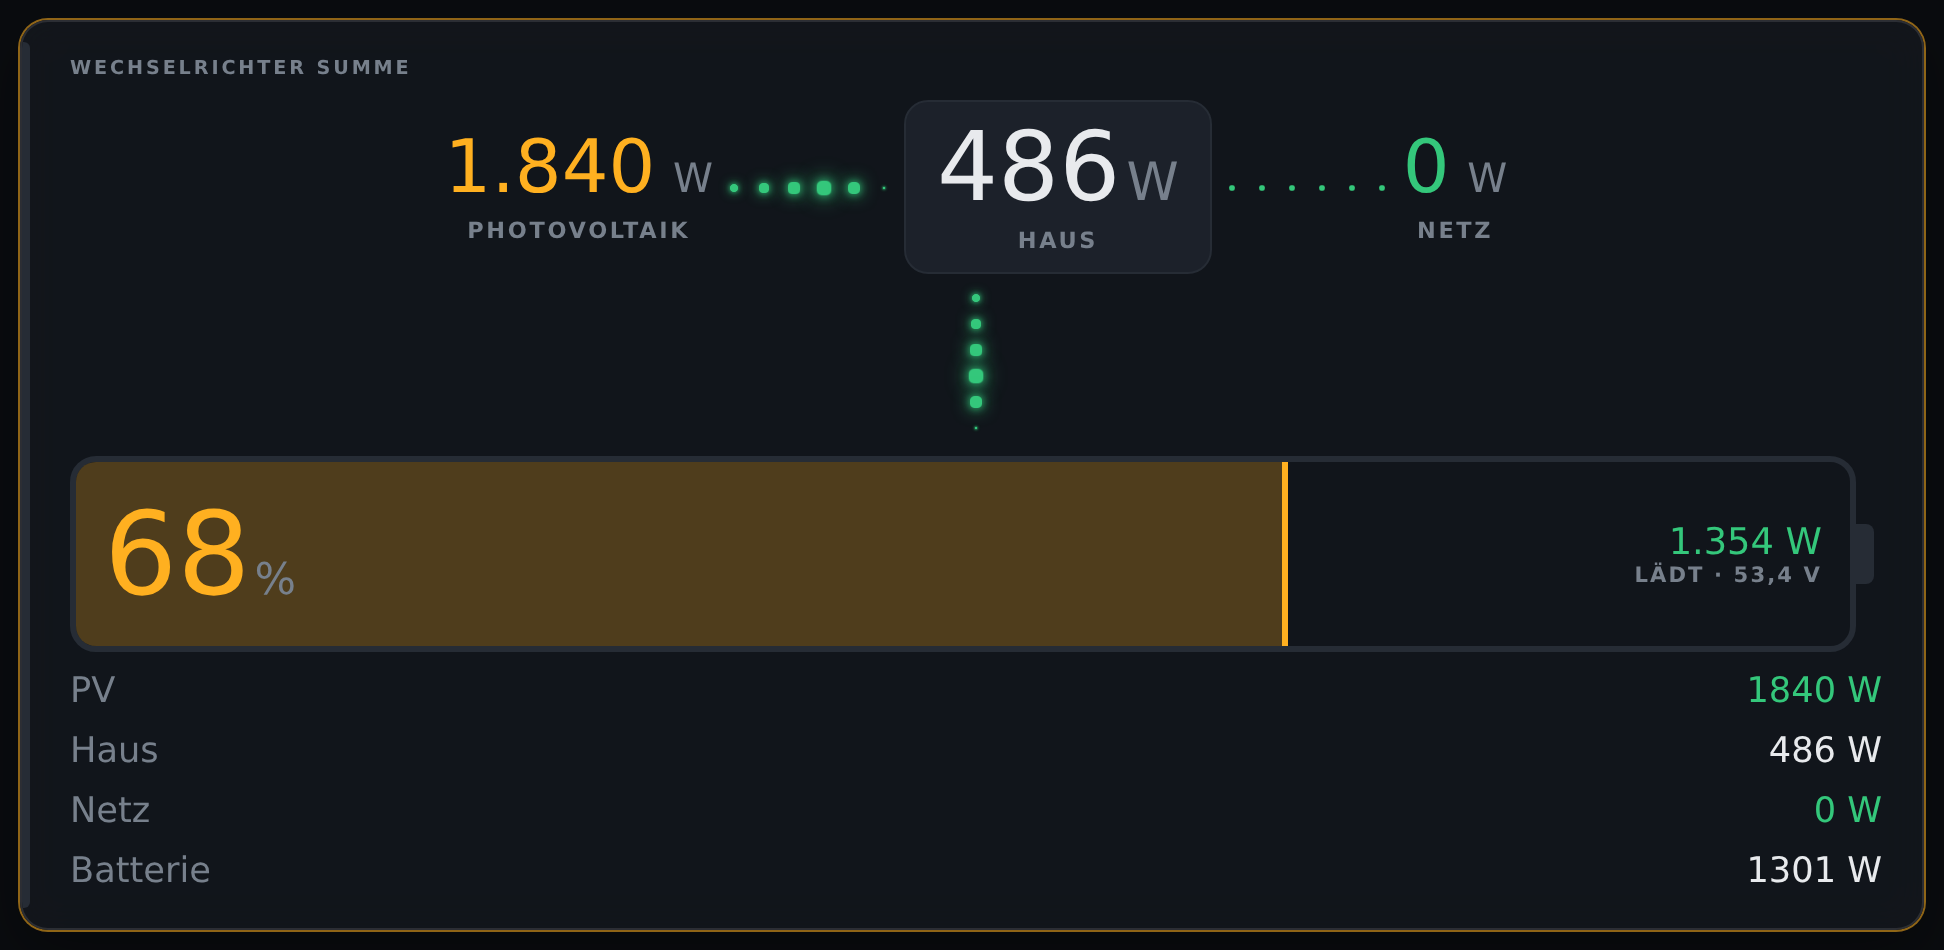
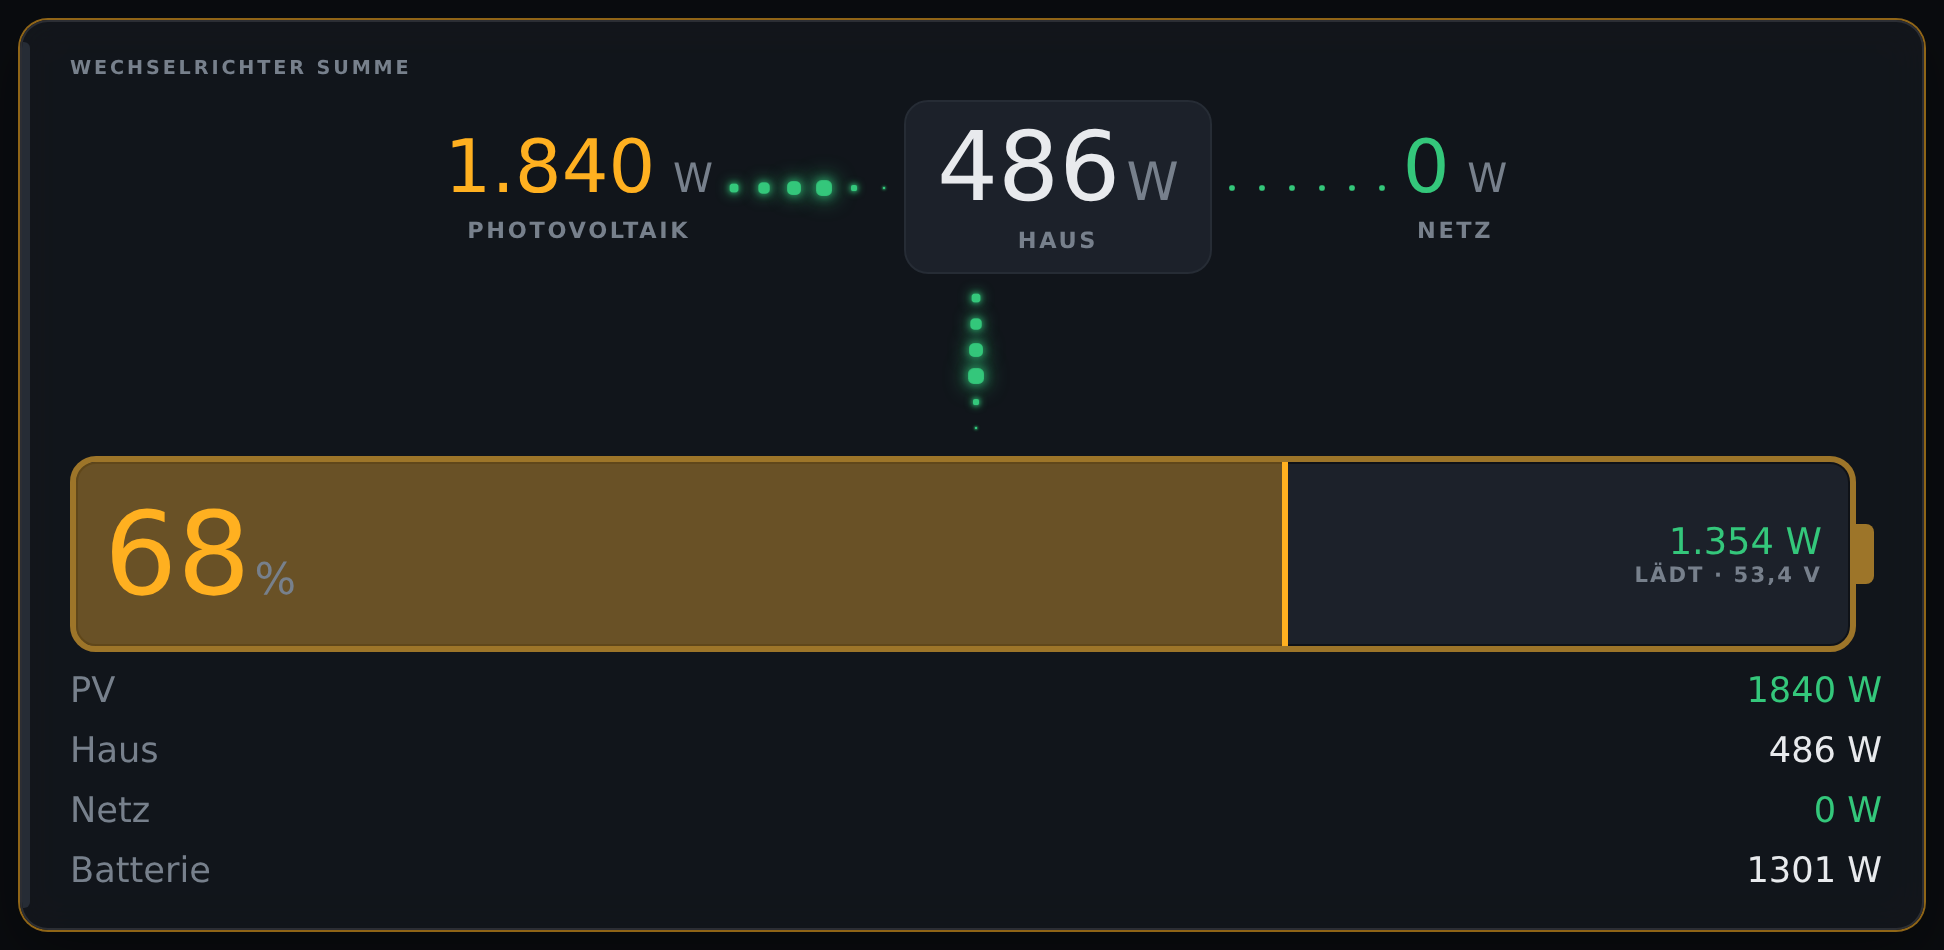
flow: Batterie setzt sich vom Hintergrund ab (v0.37.3)
Rahmen und Pol-Kappe hatten --viz-border, im dunklen Theme #262c35 auf der
Karte #151920. Die Form entstand damit praktisch nur durch die Fuellung: bei
niedrigem Ladestand war fast nichts zu sehen, und auf dem Wandtablet aus
einigen Metern verschwand das Symbol.

Rahmen und Kappe tragen jetzt die Ladefarbe (dieselbe wie Fuellung und Zahl),
gemischt mit der Rahmenfarbe; der Koerper ist auf --viz-raised aufgehellt und
ein dunkler Innenschatten trennt beides, sonst laufen Rahmen und Koerper bei
hohem Ladestand ineinander. Fuellung 26 -> 34 %.

Eine neutrale graue Variante war gebaut und in beiden Themes und im TV-Modus
gegengeprueft - auf dem Wandtablet immer noch zu leise, deshalb die farbige.
Bei 100 % steht die Zeile "ENTLAEDT 46,3 V" auf der Fuellung; nachgesehen,
noch lesbar.

Dazu docs/img/widget-flow.png neu aufgenommen.

Claude-Session: https://claude.ai/code/session_01575XWF8hpGtDmvurZybUJ7

Changed region(s): [[0.0309, 0.4579, 0.9877, 0.7021], [0.4938, 0.3968, 0.5247, 0.4274], [0.4321, 0.1832, 0.463, 0.2137]]

diff --git a/www/fhemviz/js/widgets/flow.js b/www/fhemviz/js/widgets/flow.js
@@ -97,12 +97,26 @@ const FLOW_CSS = `
    * ablesbar bleibt. Kompakt, damit sie den Ladestand nicht verdraengt. */
   .fchainrow { display: flex; justify-content: center; }
   .fchainrow .chain.v { gap: 5px; }
+  /* Rahmen und Koerper heben sich BEWUSST vom Kartenhintergrund ab: mit
+   * --viz-border (dunkel #262c35 auf der Karte #151920) war die Batterie im
+   * dunklen Theme kaum zu sehen - die Form entstand erst durch die Fuellung,
+   * bei niedrigem Ladestand also fast gar nicht. Auf dem Wandtablet, aus
+   * einigen Metern Abstand, verschwand sie ganz.
+   *
+   * Der Rahmen traegt darum die LADEFARBE (--bcol, wie Fuellung und Zahl),
+   * gemischt mit der Rahmenfarbe. Ein neutraler grauer Rahmen war getestet
+   * und aus der Entfernung immer noch zu leise. Der dunkle Innenschatten
+   * trennt den farbigen Rahmen vom aufgehellten Koerper, sonst laufen sie
+   * bei hohem Ladestand ineinander. */
   .bwrap {
     position: relative;
     height: 78px;
     margin: 2px 13px 0 0;
-    border: 3px solid var(--viz-border, #262c35);
+    border: 3px solid
+      color-mix(in srgb, var(--bcol, var(--viz-accent)) 55%, var(--viz-border, #262c35));
     border-radius: 13px;
+    background: var(--viz-raised, #1c212a);
+    box-shadow: inset 0 0 0 1px rgba(0, 0, 0, 0.45);
     min-width: 0;
   }
   /* Pol-Kappe rechts - macht die Form auf den ersten Blick zur Batterie. */
@@ -114,7 +128,8 @@ const FLOW_CSS = `
     left: 100%; margin-left: 3px;
     width: 9px; height: 30px;
     transform: translateY(-50%);
-    background: var(--viz-border, #262c35);
+    background:
+      color-mix(in srgb, var(--bcol, var(--viz-accent)) 55%, var(--viz-border, #262c35));
     border-radius: 0 4px 4px 0;
   }
   .bclip { position: absolute; inset: 0; border-radius: 10px; overflow: hidden; }
@@ -365,7 +380,7 @@ export class FhemvizFlow extends FhemvizWidget {
           aria-label="Ladestand ${this.escape(this._fmt(soc))} Prozent">
           <div class="bclip">
             <div class="bfill" style="width:${clamped}%;
-              background:color-mix(in srgb, ${color} 26%, transparent)"></div>
+              background:color-mix(in srgb, ${color} 34%, transparent)"></div>
             ${res !== null ? `<div class="bmark" style="left:${res}%"></div>` : ""}
           </div>
           <div class="binner">

diff --git a/www/fhemviz/js/app.js b/www/fhemviz/js/app.js
@@ -29,7 +29,7 @@ import {
 // Muss zur Modul-Version aus "get config" passen. Weicht sie ab, haengt
 // entweder der Browser-Cache (Strg+F5) oder das Modul wurde nach dem
 // update nicht neu geladen (reload 98_FHEMVIZ).
-const SPA_VERSION = "v0.37.2";
+const SPA_VERSION = "v0.37.3";
 
 const el = (id) => document.getElementById(id);
 

diff --git a/CHANGELOG.md b/CHANGELOG.md
@@ -11,6 +11,21 @@ Grundwidgets, Skins, TV-Modus. Ab hier ist es einzeln festgehalten.
 
 ---
 
+## v0.37.3 — 21.08.2026
+
+**Geändert**
+
+- **Die Batterie der `flow`-Kachel setzt sich vom Hintergrund ab.** Rahmen und
+  Pol-Kappe hatten `--viz-border` — im dunklen Theme `#262c35` auf der Karte
+  `#151920`, also kaum sichtbar. Die Form entstand praktisch nur durch die
+  Füllung; bei niedrigem Ladestand war fast nichts zu sehen, und auf dem
+  Wandtablet aus einigen Metern verschwand das Symbol.
+  Jetzt tragen Rahmen und Kappe die **Ladefarbe** (wie Füllung und Zahl),
+  gemischt mit der Rahmenfarbe, der Körper ist auf `--viz-raised` aufgehellt
+  und ein dunkler Innenschatten trennt beides. Füllung von 26 auf 34 %.
+  Ein neutraler grauer Rahmen war ebenfalls gebaut und verworfen: auf dem
+  Wandtablet immer noch zu leise.
+
 ## v0.37.2 — 21.08.2026
 
 **Behoben**
